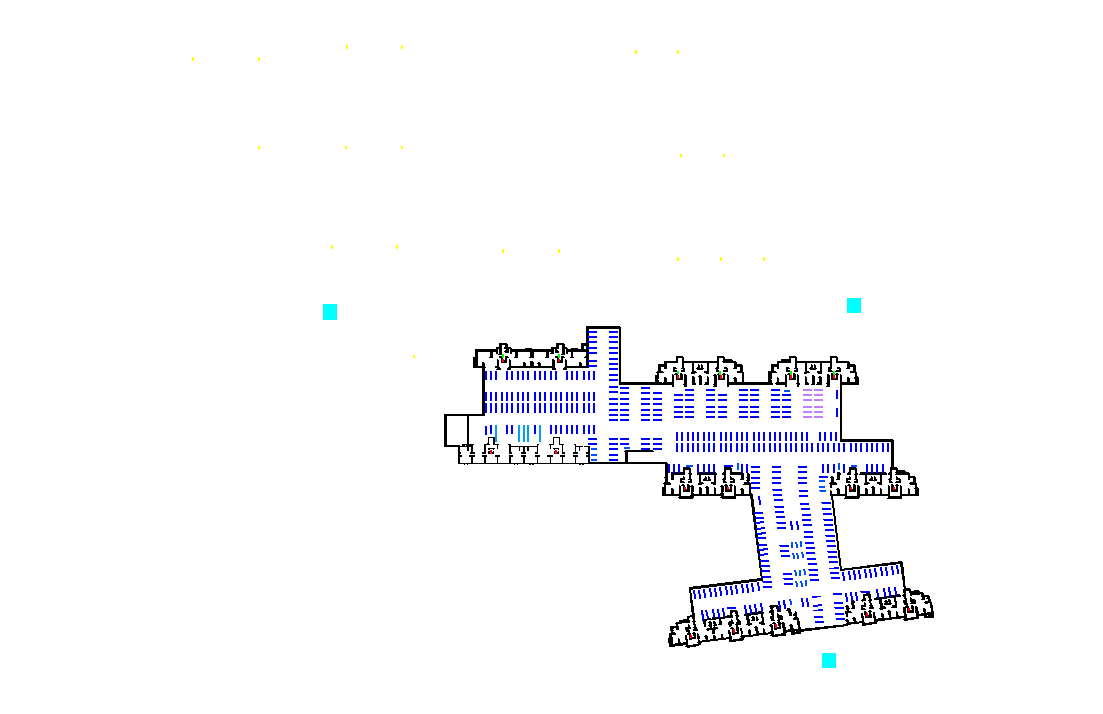
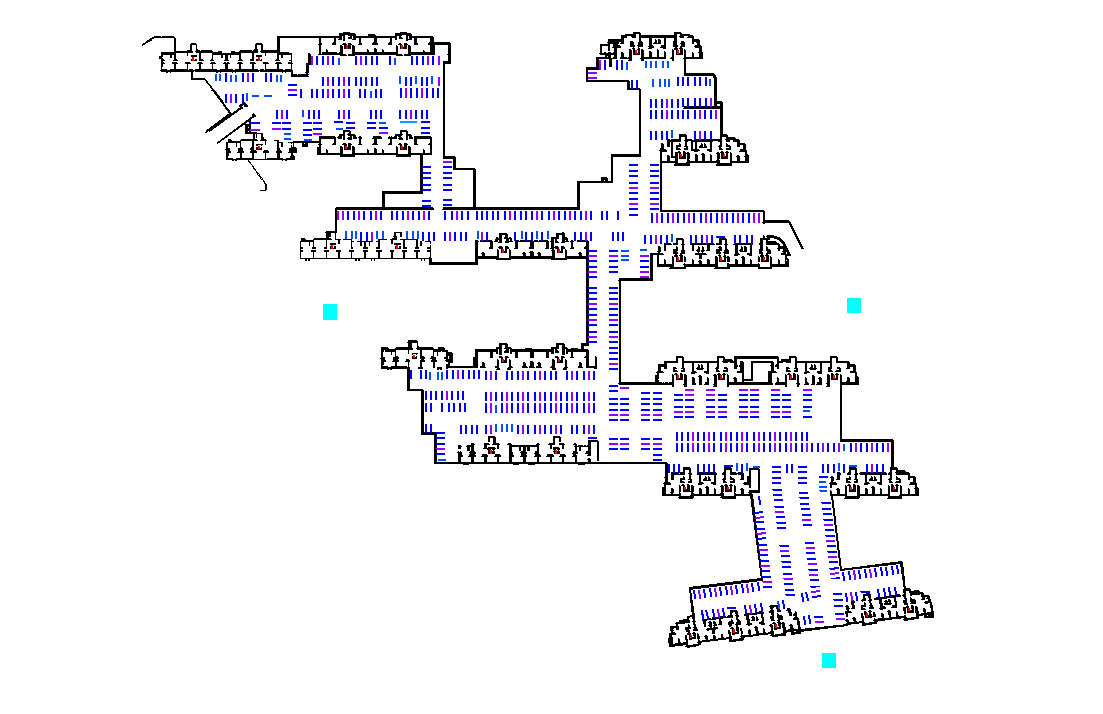
A13 adaptation

diff --git a/a13.js b/a13.js
@@ -1,0 +1,182 @@
+function a13DrawStartsNumber(targetLayer) {
+  for (let i = 0; i < basement1.starts.length; i++) {
+    let start = basement1.starts[i];
+
+    if (targetLayer) {
+      console.log("Drawing start", i);
+      targetLayer.textSize(20);
+      targetLayer.fill(255);
+      targetLayer.text(
+        i +
+          " ," +
+          basement1.coreClasses[i] +
+          ", " +
+          basement1.coreHouseholdNumbers[i],
+        start.x * pixelMultiplier,
+        start.y * pixelMultiplier
+      );
+    }
+  }
+}
+// 库存均价
+// 165 x 22000  = 363
+// 143 x 20000 = 286
+// 130 x 16000 = 208
+// class 2 meanIncome = 1.8 ** 2 * 60000 = 194400
+// class 3 meanIncome = 1.8 ** 3 * 60000 = 349920
+// class 4 meanIncome = 1.8 ** 4 * 60000 = 629856
+
+function a13Values() {
+  basement1.info = {
+    //all the way to 36
+    0: {
+      coreClass: 4,
+      coreHouseholdNumber: 18,
+    },
+    1: {
+      coreClass: 4,
+      coreHouseholdNumber: 18,
+    },
+    2: {
+      coreClass: 4,
+      coreHouseholdNumber: 18,
+    },
+    3: {
+      coreClass: 4,
+      coreHouseholdNumber: 18,
+    },
+    4: {
+      coreClass: 3,
+      coreHouseholdNumber: 22,
+    },
+    5: {
+      coreClass: 3,
+      coreHouseholdNumber: 22,
+    },
+    6: {
+      coreClass: 4,
+      coreHouseholdNumber: 18,
+    },
+    7: {
+      coreClass: 3,
+      coreHouseholdNumber: 22,
+    },
+    8: {
+      coreClass: 3,
+      coreHouseholdNumber: 22,
+    },
+    9: {
+      coreClass: 4,
+      coreHouseholdNumber: 18,
+    },
+    10: {
+      coreClass: 4,
+      coreHouseholdNumber: 18,
+    },
+    11: {
+      coreClass: 3,
+      coreHouseholdNumber: 22,
+    },
+    12: {
+      coreClass: 3,
+      coreHouseholdNumber: 22,
+    },
+    13: {
+      coreClass: 4,
+      coreHouseholdNumber: 18,
+    },
+    14: {
+      coreClass: 3,
+      coreHouseholdNumber: 22,
+    },
+    15: {
+      coreClass: 3,
+      coreHouseholdNumber: 22,
+    },
+    16: {
+      coreClass: 2,
+      coreHouseholdNumber: 36,
+    },
+    17: {
+      coreClass: 2,
+      coreHouseholdNumber: 36,
+    },
+    18: {
+      coreClass: 2,
+      coreHouseholdNumber: 36,
+    },
+    19: {
+      coreClass: 2,
+      coreHouseholdNumber: 36,
+    },
+    20: {
+      coreClass: 2,
+      coreHouseholdNumber: 36,
+    },
+    21: {
+      coreClass: 2,
+      coreHouseholdNumber: 36,
+    },
+    22: {
+      coreClass: 2,
+      coreHouseholdNumber: 36,
+    },
+    23: {
+      coreClass: 2,
+      coreHouseholdNumber: 36,
+    },
+    24: {
+      coreClass: 2,
+      coreHouseholdNumber: 36,
+    },
+    25: {
+      coreClass: 2,
+      coreHouseholdNumber: 36,
+    },
+    26: {
+      coreClass: 2,
+      coreHouseholdNumber: 36,
+    },
+    27: {
+      coreClass: 2,
+      coreHouseholdNumber: 36,
+    },
+    28: {
+      coreClass: 2,
+      coreHouseholdNumber: 36,
+    },
+    29: {
+      coreClass: 2,
+      coreHouseholdNumber: 36,
+    },
+    30: {
+      coreClass: 2,
+      coreHouseholdNumber: 36,
+    },
+    31: {
+      coreClass: 2,
+      coreHouseholdNumber: 36,
+    },
+    32: {
+      coreClass: 2,
+      coreHouseholdNumber: 36,
+    },
+    33: {
+      coreClass: 2,
+      coreHouseholdNumber: 28,
+    },
+    34: {
+      coreClass: 2,
+      coreHouseholdNumber: 36,
+    },
+    35: {
+      coreClass: 2,
+      coreHouseholdNumber: 28,
+    },
+  };
+  //apply the values to the basement1 object
+  for (let i = 0; i < basement1.starts.length; i++) {
+    basement1.coreClasses[i] = basement1.info[i].coreClass;
+    basement1.coreHouseholdNumbers[i] = basement1.info[i].coreHouseholdNumber;
+  }
+}

diff --git a/classes.js b/classes.js
@@ -6,7 +6,8 @@ let customerLotChoices = []; // This will store customer-lot pairings for each r
 
 let customersTotalIncome = 0;
 // const remoteLotDist = 400; // in meters, Not in use
-const baselineIncome = 60000; //CNY for surviving level
+// const baselineIncome = 60000; //CNY for surviving level
+const baselineIncome = 130000;
 const guessHigh = 700000;
 let householdNumbers;
 let prices = []; // prices of each round
@@ -25,12 +26,18 @@ const basement2RampMetersLoss = 50;
 
 class Customer {
   constructor(core, level = 0) {
-    this.meanIncome = 1.8 ** level * baselineIncome;
+    // this.meanIncome = 1.8 ** level * baselineIncome;
+    this.meanIncome = 1.4 ** level * baselineIncome;
     this.income = normalRandom(this.meanIncome, 0.15 * this.meanIncome);
+    //jinan a13 adjusted value
     this.carOwnership =
-      0.12 /
-      ((1.5 ** (log(this.income / baselineIncome) / log(2)) * 12000) /
+      0.075 /
+      ((1.35 ** (log(this.income / baselineIncome) / log(2)) * 12000) /
         this.income);
+    // this.carOwnership =
+    // 0.12 /
+    // ((1.5 ** (log(this.income / baselineIncome) / log(2)) * 12000) /
+    //   this.income);
 
     this.firstCar = false;
     if (this.carOwnership > random()) {
@@ -110,7 +117,7 @@ class Customer {
           this.lotsLossDouble[i] =
             (this.dists[i] +
               basement2RampMetersLoss * (combinedEnds[i].basement - 1)) *
-              this.meterValueDouble -
+              this.meterValueDouble +
             40 * this.meterValueDouble;
           if (this.dists[i] < 10)
             this.lotsLossDouble[i] -= 40 * this.meterValueDouble;
@@ -652,5 +659,6 @@ function drawParkingLotsAndPrices() {
     targetLayer.text(round(prices[maxSalesIndex][i] / 10000, 1), x, y);
   });
 
+  a13DrawStartsNumber(basement1.textLayer);
   // After drawing, make sure to render these layers in the main draw loop to see the changes
 }

diff --git a/sketch.js b/sketch.js
@@ -39,8 +39,10 @@ function setup() {
         loadImage(URL.createObjectURL(file), function (loadedImg) {
           basement1.inputImage = loadedImg;
           processImage(basement1, basement1.inputImage);
+
           combineEnds(basement1, basement2);
           mergeCommonStarts(basement1, basement2);
+          a13Values();
         });
       }
     });
@@ -56,6 +58,7 @@ function setup() {
           processImage(basement2, basement2.inputImage);
           combineEnds(basement1, basement2);
           mergeCommonStarts(basement1, basement2);
+          a13Values();
         });
       }
     });
@@ -189,7 +192,7 @@ function processImage(basement, inputImage) {
     endPoint.horizontal = findClusterSize(cluster).horizontal; //horizontal or not is for parking lot
     endPoint.angle = findClusterSize(cluster).angle;
     endPoint.xSize = findClusterSize(cluster).xSize;
-    if (endPoint.xSize < 5) {
+    if (endPoint.xSize < 8) {
       endPoint.small = true;
     }
     if (endPoint.xSize > 13) {

diff --git a/index.html b/index.html
@@ -171,6 +171,7 @@ Contacts List
     <script src="classes.js"></script>
     <script src="basement.js"></script>
     <script src="./pathfinding/pathfinding.js"></script>
+    <script src="a13.js"></script>
     <script src="sketch.js"></script>
     <!-- <script src="pathfinding.js"></script> -->
   </body>
